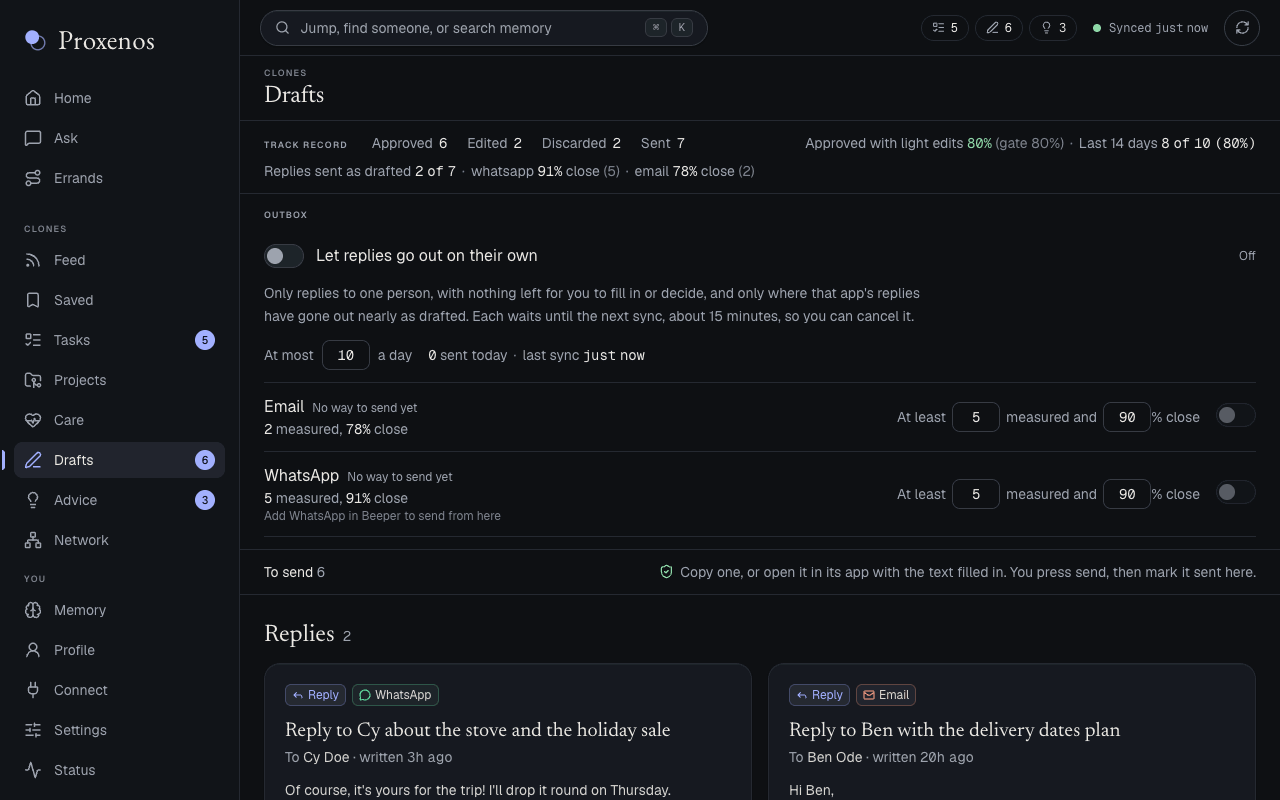
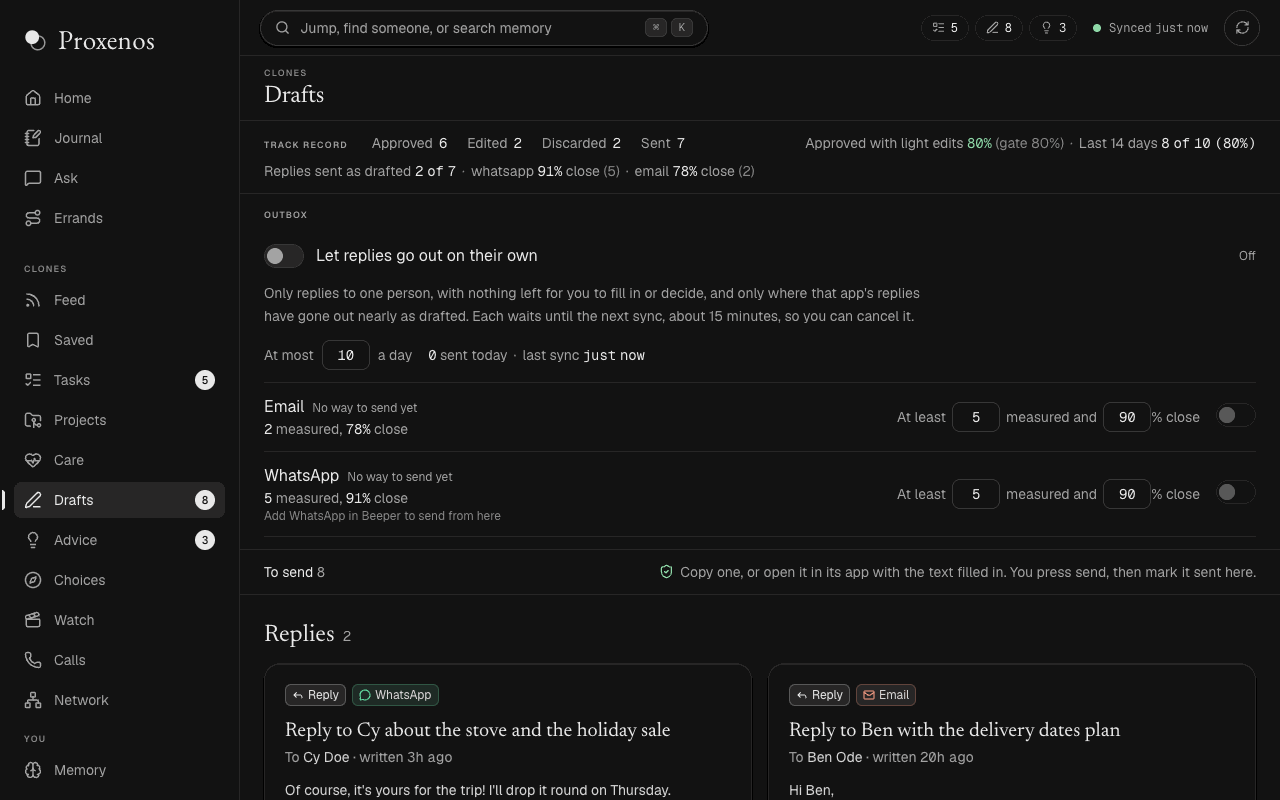
Bring the README up to date with the journal, forms, projects that read their code, what you tell Proxenos, drafts written your own way, plans on your calendar and the hourly task pass, add the journal to the demo and the pictures, and retake them in the neutral dark look in a morning time zone

diff --git a/web/src/components/home/ToldNotes.tsx b/web/src/components/home/ToldNotes.tsx
@@ -10,7 +10,7 @@ import type { ToldNote } from "@/lib/types";
 /**
  * What the reader tells Proxenos that no message shows: a fact for now ("I'm not going to
  * Tuesday's visit"), which the task list and calendar follow, or a rule for everything it drafts
- * ("Mom and Dad must never hear about my health"). Each can be removed again.
+ * ("keep replies to my manager short"). Each can be removed again.
  */
 export function ToldNotes({ now }: { now: string }) {
   const [notes, setNotes] = useState<ToldNote[]>([]);
@@ -70,7 +70,7 @@ export function ToldNotes({ now }: { now: string }) {
           onKeyDown={(e) => {
             if (e.key === "Enter" && (e.metaKey || e.ctrlKey)) void save();
           }}
-          placeholder="e.g. I'm not going to Tuesday's appointment; never tell my parents about my health"
+          placeholder="e.g. I'm not going to Tuesday's appointment; keep replies to my manager short"
           className="min-w-0 flex-1 resize-y rounded-xl border border-line-strong bg-bg p-2.5 text-sm text-ink leading-relaxed font-sans"
         />
         <ActionButton

diff --git a/src/proxenos/clones/journal.py b/src/proxenos/clones/journal.py
@@ -27,7 +27,7 @@ from datetime import UTC, date, datetime, time, timedelta
 from pathlib import Path
 
 from proxenos import llm, plans, told
-from proxenos.clones import tasks
+from proxenos.clones import tasks, work
 from proxenos.config import env
 
 DAY_STARTS = 6  # local hour: a run before it writes the day before
@@ -60,26 +60,18 @@ def write(vault: Path, day: date | None = None, now: datetime | None = None) -> 
     """Write the entry for `day` (the day that just ended, before DAY_STARTS), and count it."""
     now = now or datetime.now(UTC)
     day = day or (now.astimezone() - timedelta(hours=DAY_STARTS)).date()
-    start = datetime.combine(day, time.min).astimezone()
-    end = start + timedelta(days=1)
-    sections = {
-        "done": _done(vault, start, end),
-        "said": _said(vault, start, end),
-        "moved": _moved(vault, start, end),
-        "waiting": _waiting(vault),
-        "next": _next(vault, day, end),
-    }
+    sections = lines(vault, day)
     entry = {"date": day.isoformat(), "generated": _iso(now), "brief": "", "next_up": []}
     if any(sections.values()) and llm.configured():
         person = env("NAME", "the person")
-        lines = "\n\n".join(
+        listed = "\n\n".join(
             f"## {name}\n" + "\n".join(f"- {line}" for line in items)
             for name, items in sections.items()
             if items
         )
         try:
             answer = llm.ask(
-                f"The day: {day:%A %Y-%m-%d}.\n\n{lines}",
+                f"The day: {day:%A %Y-%m-%d}.\n\n{listed}",
                 system=_SYSTEM.format(person=person),
                 schema=_SCHEMA,
             )
@@ -87,18 +79,32 @@ def write(vault: Path, day: date | None = None, now: datetime | None = None) -> 
             entry["next_up"] = [" ".join(str(n).split()) for n in answer.get("next_up") or []][:3]
         except llm.ModelError as e:
             print(f"journal: no brief ({' '.join(str(e).split())[:200]})")
-    entry["sections"] = sections
-    out = vault / "clones" / "journal"
-    out.mkdir(parents=True, exist_ok=True)
-    tmp = out / f"{day.isoformat()}.json.tmp"
-    tmp.write_text(json.dumps(entry, indent=1, ensure_ascii=False) + "\n", encoding="utf-8")
-    tmp.replace(out / f"{day.isoformat()}.json")
+    save(vault, entry | {"sections": sections})
     return {f"{name} lines": len(items) for name, items in sections.items()} | {
         "briefs": int(bool(entry["brief"]))
     }
 
 
+def save(vault: Path, entry: dict) -> None:
+    """Write one day's entry, {date, generated, brief, next_up, sections}, in place of any before."""
+    path = vault / "clones" / "journal" / f"{entry['date']}.json"
+    work._write(path, json.dumps(entry, indent=1, ensure_ascii=False) + "\n")
+
+
 # What the day held
+
+
+def lines(vault: Path, day: date) -> dict[str, list[str]]:
+    """The day's lines, section by section, with no model."""
+    start = datetime.combine(day, time.min).astimezone()
+    end = start + timedelta(days=1)
+    return {
+        "done": _done(vault, start, end),
+        "said": _said(vault, start, end),
+        "moved": _moved(vault, start, end),
+        "waiting": _waiting(vault),
+        "next": _next(vault, day, end),
+    }
 
 
 def _done(vault: Path, start: datetime, end: datetime) -> list[str]:
@@ -108,18 +114,21 @@ def _done(vault: Path, start: datetime, end: datetime) -> list[str]:
         if _within(entry.get("closed_at"), start, end) and entry.get("action") in (None, "done"):
             found.append(f"Done: {entry.get('title')}")
     drafts = _drafts(vault)
-    sent: dict[str, None] = {}
+    sent: dict[str, str] = {}  # each draft sent that day, with who it went to
     for event in _jsonl(vault / "clones" / "drafts" / "feedback.jsonl"):
         if event.get("action") == "sent" and _within(event.get("ts"), start, end):
-            sent[str(event.get("draft_id"))] = None
+            sent.setdefault(str(event.get("draft_id")), "")
     fidelity = _json(vault / "clones" / "drafts" / "fidelity.json")
     for measured in fidelity.get("drafts", []) if isinstance(fidelity, dict) else []:
         if isinstance(measured, dict) and _within(measured.get("sent"), start, end):
-            sent[str(measured.get("id"))] = None
-    for key in sent:
+            sent[str(measured.get("id"))] = str(measured.get("to") or "")
+    for key, to in sent.items():
         draft = drafts.get(key, {})
-        to = f" to {draft['to']}" if draft.get("to") else ""
-        found.append(f"Sent: {draft.get('title') or key}{to}")
+        to = draft.get("to") or to
+        if draft.get("title"):
+            found.append(f"Sent: {draft['title']}{f' to {to}' if to else ''}")
+        elif to:  # a reply whose draft is gone: who it went to is all there is
+            found.append(f"Sent: a reply to {to}")
     for path in sorted((vault / "clones" / "projects").glob("*/steps/*.json")):
         step = _json(path)
         if step.get("status") == "accepted" and _within(step.get("updated"), start, end):

diff --git a/src/proxenos/demo.py b/src/proxenos/demo.py
@@ -6,8 +6,9 @@ sorting out the bill for new glasses. What the ingesters would bring in is writt
 their formats, dated around today: WhatsApp chats and groups, two mail accounts, two calendars,
 walks, listening, notes and LinkedIn connections. What the model would write from them is written
 the way each clone writes it: the self-model, a feed, tasks, care, advice, network ideas, the
-week's choices, drafts and errands. Then the steps that need no model run on it as they would on a real vault: the
-memory index, the people index, today's recall and the outbox's track record.
+week's choices, drafts and errands. Then the steps that need no model run on it as they would on
+a real vault: the memory index, the people index, today's recall, the outbox's track record and
+yesterday's journal, with the brief the model would write.
 
 No model is called, and nothing on this computer is read. The people and organizations are made
 up, phone numbers are 555-01xx (kept for fiction), and addresses and links use the reserved
@@ -28,7 +29,18 @@ from datetime import UTC, datetime, timedelta
 from pathlib import Path
 
 from proxenos import memory, outbox, store
-from proxenos.clones import advisor, care, choices, errands, network, recall, tasks, tracker, work
+from proxenos.clones import (
+    advisor,
+    care,
+    choices,
+    errands,
+    journal,
+    network,
+    recall,
+    tasks,
+    tracker,
+    work,
+)
 from proxenos.config import REPO_ROOT
 
 PORT = 4848  # the demo's page, so it can run beside your own on 4747
@@ -129,6 +141,7 @@ def build(vault: Path, now: datetime | None = None) -> dict[str, int]:
         people = network.build(vault, people_only=True, now=c.now)
         recalled = recall.recall(vault, now=c.now)
         outbox.run(vault, c.now)  # its track record for the page; a demo has no way to send
+        _journal(vault, c)
     return {
         "records": indexed.get("records_total", 0),
         "people": people.get("people", 0),
@@ -2235,6 +2248,34 @@ def _errands(vault: Path, c: _Clock) -> None:
     )
     for record in [*found, sent]:
         _write_json(vault / "clones" / "errands" / f"{record['id']}.json", record)
+
+
+def _journal(vault: Path, c: _Clock) -> None:
+    """Yesterday's journal entry as the night writes it: the lines from what the demo holds, and
+    the brief and next up the model would write from them."""
+    day = (c.local - timedelta(days=1)).date()
+    lines = journal.lines(vault, day)
+    sent = sum(line.startswith("Sent: ") for line in lines["done"])
+    replies = f"You sent {sent} repl{'y' if sent == 1 else 'ies'}." if sent else "Nothing went out."
+    brief = (
+        f"{replies} Hana Ito still owes you a topic for the lunch-and-learn, and Acme IT hasn't "
+        "fixed the label printer in dispatch. Next is Ben's delivery dates for the holiday "
+        "catalog, then getting Juniper Optical to rebill the glasses through the vision plan."
+    )
+    journal.save(
+        vault,
+        {
+            "date": day.isoformat(),
+            "generated": c.at(0, 1, 30),
+            "brief": brief,
+            "next_up": [
+                "Send Ben the delivery dates for the holiday catalog",
+                "Ask Juniper Optical to rebill through the vision plan",
+                "Reply to Cy about the stove and the holiday sale",
+            ],
+            "sections": lines,
+        },
+    )
 
 
 def _load(path: Path) -> list[dict]:

diff --git a/tests/test_told.py b/tests/test_told.py
@@ -20,7 +20,7 @@ def test_rules_stay_facts_fade_and_removed_ones_go(tmp_path):
         tmp_path,
         {
             "at": "2026-01-02T09:00:00Z",
-            "text": "Never tell  my parents about my health.",
+            "text": "Keep replies to  my manager short.",
             "always": True,
         },
         {"at": "2026-02-01T09:00:00Z", "text": "Old news.", "always": False},
@@ -30,12 +30,12 @@ def test_rules_stay_facts_fade_and_removed_ones_go(tmp_path):
     )
 
     assert [n["text"] for n in told.notes(tmp_path, NOW)] == [
-        "Never tell my parents about my health.",  # a rule: still here after two months
+        "Keep replies to my manager short.",  # a rule: still here after two months
         "Not going to Tuesday's visit.",  # a fact from yesterday; last month's has faded
     ]
     text = told.prompt(tmp_path, "Tess", NOW)
     assert "Tess's own rules for everything written for them" in text
-    assert "- Never tell my parents about my health." in text
+    assert "- Keep replies to my manager short." in text
     assert "- 2026-03-09: Not going to Tuesday's visit." in text and "Old news" not in text
     assert told.prompt(tmp_path / "none", "Tess", NOW) == ""
 

diff --git a/tests/test_journal.py b/tests/test_journal.py
@@ -2,6 +2,8 @@
 
 import argparse
 import json
+import os
+import stat
 from datetime import UTC, date, datetime
 
 import pytest
@@ -86,7 +88,9 @@ def test_the_day_is_written_from_what_the_vault_already_holds(tmp_path, monkeypa
     monkeypatch.setattr(llm, "ask", ask)
     stats = journal.write(vault, DAY, NOW)
 
-    entry = json.loads((vault / "clones" / "journal" / "2026-03-10.json").read_text())
+    path = vault / "clones" / "journal" / "2026-03-10.json"
+    entry = json.loads(path.read_text())
+    assert os.name == "nt" or stat.S_IMODE(path.stat().st_mode) == 0o600
     sections = entry["sections"]
     assert sections["done"] == ["Done: Send Asha the slides", "Sent: Reply to Ben to Ben"]
     assert sections["said"] == [

diff --git a/src/proxenos/told.py b/src/proxenos/told.py
@@ -3,7 +3,7 @@
 Two kinds of note, written from the page's home view into state/told.jsonl, one line each
 ({at, text, always}):
 - a rule, kept until the user removes it ("always"): how everything drafted for them goes,
-  such as "Mom and Dad must never hear about my health";
+  such as "keep replies to my manager short";
 - a fact, true for now: something that changed and no message shows yet, such as "I'm not
   going to Tuesday's clinic visit". It counts for FACT_DAYS.
 Removing a note appends {at, forget: <the note's at>}, so the file only grows, as feedback does.

diff --git a/README.md b/README.md
@@ -17,7 +17,7 @@ When you're unwell, the hard part is often everything around the care: referrals
 
 It grew out of one person's weeks of getting through the system while unwell. The story is [Try anything, but don't fall sick](https://mrugankdake.substack.com/p/try-anything-but-dont-fall-sick), and more on the project is at [mindemory.io/proxenos](https://www.mindemory.io/proxenos).
 
-> **Status: early, and used every day by one person.** It runs on a Mac (Apple Silicon) for someone comfortable with a terminal, and every check passes from a fresh clone. It's about 45,000 lines of Python and TypeScript, with 16,000 more in 680 tests that run on macOS and Windows on every push. It isn't yet something you can download and use without code. That's the next track: one download, signing in instead of configuring, and a clear privacy screen ([docs/everyone.md](docs/everyone.md)). Expect rough edges, and readers that assume a particular export format.
+> **Status: early, and used every day by one person.** It runs on a Mac (Apple Silicon) for someone comfortable with a terminal, and every check passes from a fresh clone. It's about 56,000 lines of Python, TypeScript and Swift, with 21,000 more in 720 tests that run on macOS and Windows on every push. It isn't yet something you can download and use without code. That's the next track: one download, signing in instead of configuring, and a clear privacy screen ([docs/everyone.md](docs/everyone.md)). Expect rough edges, and readers that assume a particular export format.
 >
 > **Help of any kind is welcome:** code, an issue, or an idea over a message or a call. Healthcare comes first, so people with medical training are especially welcome. Knowing what's worth tracking and what to ask is what would make this preventive, not just a way through the system. Good places to start are in [CONTRIBUTING.md](CONTRIBUTING.md#good-first-contributions). If you'd like Proxenos to exist for more people, a star helps others find it.
 
@@ -26,14 +26,17 @@ It grew out of one person's weeks of getting through the system while unwell. Th
 Proxenos gathers your own data (messages, email, calendar, notes, documents, activity) into one private vault on your computer. From that it keeps a written model of who you are, and runs small agents ("clones") that work for you:
 - a feed of new papers and news, ranked for you;
 - your open tasks, pulled from your conversations and from what you tell it, kept up through the day, with the plans among them (a lunch at 12, a call at 9) put on your own calendar;
+- a journal of each day, so you never have to narrate it: what got done, where you wrote, what moved in your projects, what's waiting on others and what's next, with a few sentences on how it went;
 - where your health care stands: a timeline, what's still open, what to say on the phone, and a one-page brief for your next appointment;
+- the forms you're handed (a PDF application, an intake form) filled from your records, leaving the ID numbers, account numbers and signature to you;
 - advice grounded in your own patterns;
 - once a week, what's worth taking on (a call for papers, a fellowship, a talk, a piece of writing, with a first step drafted) and what's worth letting go of (a meeting, a thread, an invitation, with the decline drafted), by your own goals;
+- where each of your long-running projects stands, from your messages and its code on every branch, and, given its code, the next step of its work done on a branch of its own for you to accept;
 - a map of the people you know and how they connect;
 - a searchable memory that brings the right past messages and notes to mind;
 - drafts of replies, emails and plans, written in your voice: a reply for each chat waiting on you, in the way you write to that person, after reading any link they sent.
 
-It drafts; by default it never sends, posts or buys anything by itself. You copy a draft or open it in its app with the text filled in, and press send yourself; once your reply shows up in that chat, the draft is marked sent. Chats that need no answer (thanks, a receipt, an auto-reply) get no draft. A draft you changed before sending is shown, beside what you sent, to the drafts written for you after it, and a draft your messages since made moot (someone else did it, or the plan changed) is folded away with why. An outbox you switch on per app lets replies go out on their own, only where that app's drafts have gone out nearly unchanged many times, with a window to cancel each one ([docs/memory.md](docs/memory.md)). It places a phone call only when you press Call: it waits on hold, says it's an automated assistant calling for you, and rings you when a person answers ([docs/calls.md](docs/calls.md)). The longer-term plan, moving from drafting to acting on approval to acting within rules you set, is in [docs/roadmap.md](docs/roadmap.md).
+It drafts; by default it never sends, posts or buys anything by itself. You copy a draft or open it in its app with the text filled in, and press send yourself; once your reply shows up in that chat, the draft is marked sent. Chats that need no answer (thanks, a receipt, an auto-reply) get no draft. A draft you changed before sending, or rewrote on the page with "Write my own", is shown, beside what you sent, to the drafts written for you after it, and a draft your messages since made moot (someone else did it, or the plan changed) is folded away with why. What you tell it on the home page shapes every draft: a fact your messages don't show ("I'm not going on Tuesday"), kept for two weeks, or a rule kept until you remove it ("keep replies to my manager short"). Drafts never leave a blank for you to fill in. An outbox you switch on per app lets replies go out on their own, only where that app's drafts have gone out nearly unchanged many times, with a window to cancel each one ([docs/memory.md](docs/memory.md)). It places a phone call only when you press Call: it waits on hold, says it's an automated assistant calling for you, and rings you when a person answers ([docs/calls.md](docs/calls.md)). The longer-term plan, moving from drafting to acting on approval to acting within rules you set, is in [docs/roadmap.md](docs/roadmap.md).
 
 *The name: in the Greek city-states, a proxenos was the citizen who formally acted on someone else's behalf.*
 
@@ -47,14 +50,19 @@ These come from `proxenos demo` (see [Quick start](#quick-start)), like the home
 | **Drafts: replies and documents in your voice, ready to send** | **Tasks: what was asked of you, pulled from your conversations** |
 | ![Drafts: a WhatsApp reply and an email reply to send, with each app's track record and the outbox, off](docs/images/drafts-desktop.png) | ![Tasks: tasks from email and WhatsApp, with who asked, when, and when each is due](docs/images/tasks-desktop.png) |
 
+**Journal: the day, written down, from what Proxenos already tracks**
+
+![Journal: a brief on yesterday, the next three things to do, and the replies sent, what's waiting on others and what's next](docs/images/journal-desktop.png)
+
 On a phone, over `proxenos phone`:
 
 <p>
-  <img src="docs/images/home-phone.png" width="19%" alt="Home on a phone">
-  <img src="docs/images/care-phone.png" width="19%" alt="Care on a phone">
-  <img src="docs/images/errands-phone.png" width="19%" alt="Errands on a phone">
-  <img src="docs/images/drafts-phone.png" width="19%" alt="Drafts on a phone">
-  <img src="docs/images/tasks-phone.png" width="19%" alt="Tasks on a phone">
+  <img src="docs/images/home-phone.png" width="15.5%" alt="Home on a phone">
+  <img src="docs/images/care-phone.png" width="15.5%" alt="Care on a phone">
+  <img src="docs/images/errands-phone.png" width="15.5%" alt="Errands on a phone">
+  <img src="docs/images/drafts-phone.png" width="15.5%" alt="Drafts on a phone">
+  <img src="docs/images/tasks-phone.png" width="15.5%" alt="Tasks on a phone">
+  <img src="docs/images/journal-phone.png" width="15.5%" alt="Journal on a phone">
 </p>
 
 ## How it works
@@ -66,7 +74,8 @@ your sources ──ingest──▶ vault/raw ──observe──▶ notes ──
                                                         clones: feed, tasks, advice,
                                                         choices, watch, network,
                                                         recall, projects, project
-                                                        steps, errands, drafts
+                                                        steps, errands, drafts,
+                                                        journal
                                                                 │
                                                         local page (127.0.0.1)
 ```
@@ -81,7 +90,7 @@ More detail: [architecture](docs/architecture.md), [memory](docs/memory.md), [da
 ## Privacy
 
 - **Code and data are separate.** This repository holds code only. Everything personal lives in a private vault outside the repo (picked on the first-run setup page, or `PROXENOS_VAULT`; default `~/proxenos_vault`). The vault keeps its own local git history of how the self-model changes.
-- **What reaches the model:** observers send the model only your side of conversations, never other people's messages. Clones send your self-model, plus public items such as papers and news; watch also sends the films you've logged and how you rated them. Three clones also send recent records they need, picked out in code: tasks sends conversations you're part of, with the title and opening of each draft waiting on you; care sends only records about getting health care, with people in chats replaced by labels and phone, account and member numbers blanked; and drafts sends the recent conversation in each direct chat, or Slack thread that mentions you or that you're in, waiting on your reply, with what your memory holds about that person and what the chat depends on (the newest records naming them, and the results of the searches the model asks for). On a phone call you start, what the other side says goes to the call's model to decide what the assistant says next, and the call's audio goes through Twilio, which transcribes it ([docs/calls.md](docs/calls.md)). Filling a form (`proxenos form`) sends its labels and the records memory finds for them, never a line for an SSN, an account number or a signature. Every draft also gets what you've told Proxenos on the home page (your rules, and recent notes, which the task list reads too) and your calendar for the coming week (each event's time and title). With a local model none of this leaves your computer, apart from the call's audio.
+- **What reaches the model:** observers send the model only your side of conversations, never other people's messages. Clones send your self-model, plus public items such as papers and news; watch also sends the films you've logged and how you rated them. Three clones also send recent records they need, picked out in code: tasks sends conversations you're part of, with the title and opening of each draft waiting on you; care sends only records about getting health care, with people in chats replaced by labels and phone, account and member numbers blanked; and drafts sends the recent conversation in each direct chat, or Slack thread that mentions you or that you're in, waiting on your reply, with what your memory holds about that person and what the chat depends on (the newest records naming them, and the results of the searches the model asks for). On a phone call you start, what the other side says goes to the call's model to decide what the assistant says next, and the call's audio goes through Twilio, which transcribes it ([docs/calls.md](docs/calls.md)). Filling a form (`proxenos form`) sends its labels and the records memory finds for them, never a line for an SSN, an account number or a signature. Every draft also gets what you've told Proxenos on the home page (your rules, and recent notes, which the task list reads too) and your calendar for the coming week (each event's time and title). The journal sends the day's lines to write its brief: the titles of tasks closed, waiting and due, the names of the chats you wrote in and the drafts sent, what you told Proxenos that day, your projects' commit messages, the next day's calendar and care's open items. With a local model none of this leaves your computer, apart from the call's audio.
 - **Links in messages** are fetched only for a chat waiting on your reply, and only from hosts on the public internet, never this computer or your local network.
 - **The page is local only.** It binds to 127.0.0.1 and rejects requests from other sites. The one way in from elsewhere is `proxenos phone`: your Mac's private address on your own Tailscale network, answered only for your own Tailscale login. Nothing is opened to the internet, except, if you set up calls, one port Tailscale Funnel opens for Twilio, which answers only during a call and only requests Twilio signed.
 - **Credentials** stay on your computer: in its own secure store, one item each (the macOS Keychain, Windows Credential Manager, or the Secret Service on Linux), or in `.env` (which git ignores) when you run from source with one. The page shows whether each is set, never what it is.
@@ -130,7 +139,7 @@ proxenos master                 # notes per month, then the self-model
 proxenos clone tracker          # also: tasks, care, advisor, network, choices, watch, recall, projects, work
 ```
 
-Your long-running projects are a list you keep in the vault, `clones/projects/projects.json`: each with an id, a name, what it's about, its people and the words that name it. Each night Proxenos writes where each one stands. Give one its code's folder and its data folders, and it also does the work, a step a night, on a branch of its own, and brings it back for you to accept on the page's Projects view:
+Your long-running projects are a list you keep in the vault, `clones/projects/projects.json`: each with an id, a name, what it's about, its people and the words that name it. Each night Proxenos writes where each one stands, from what your messages say and, given its code's folder, the commits on every branch since the last run. Give one its data folders too, and it also does the work, a step a night, on a branch of its own, and brings it back for you to accept on the page's Projects view:
 
 ```json
 {"id": "calls-paper", "name": "The calls paper", "about": "...", "people": ["Ana Lee"],
@@ -146,7 +155,7 @@ To keep it running without a terminal, run `scripts/install-app.sh`: the page an
 
 `px` is a short alias for `proxenos`.
 
-Some sources read a folder on your computer: a folder of documents, your website's repo, a Spotify export, slackdump runs. Set them in Settings, or in `.env` as `PROXENOS_DOCS_DIRS`, `PROXENOS_WEBSITE_REPO`, `PROXENOS_SPOTIFY_EXPORT` and `PROXENOS_SLACKDUMP_DIR`. `.env.example` lists every setting.
+Some sources read a folder on your computer: a folder of documents, your website's repo, a Spotify export, slackdump runs. Set them in Settings, or in `.env` as `PROXENOS_DOCS_DIRS`, `PROXENOS_WEBSITE_REPO`, `PROXENOS_SPOTIFY_EXPORT` and `PROXENOS_SLACKDUMP_DIR`. To have plans from your messages land on one of your calendars, set `PROXENOS_PLANS_CALENDAR` to its name in the Mac's Calendar app, which syncs it to its account (Google, Exchange, iCloud); otherwise subscribe to the page's `/api/plans.ics`. `.env.example` lists every setting.
 
 ## Sources
 
@@ -179,17 +188,18 @@ See [docs/data_sources.md](docs/data_sources.md) for each one's details.
 | `proxenos ask [QUESTION]` | Ask your twin: a question, a pasted message or screenshots (from the page's Ask view), answered from your memory the way you'd think it through, with a reply drafted when it's a message to you |
 | `proxenos phone` | Open the page to your own phone over Tailscale |
 | `proxenos call start NAME` / `stop NAME` / `list` | Place a phone call from a call sheet (also from the page's Calls view), through your own Twilio account: it waits on hold, says it's an automated assistant calling for you, and rings you when a person answers, or asks for what the sheet lists. It never agrees to pay. See [docs/calls.md](docs/calls.md) |
-| `proxenos web [--port N]` | The local page: a landing, then the app (Home, Ask, Errands, Feed, Tasks, Projects, Care, Drafts, Advice, Choices, Watch, Calls, Network, Memory, Profile, Connect, Settings, Status), after a short setup the first time |
+| `proxenos web [--port N]` | The local page: a landing, then the app (Home, Journal, Ask, Errands, Feed, Tasks, Projects, Care, Drafts, Advice, Choices, Watch, Calls, Network, Memory, Profile, Connect, Settings, Status), after a short setup the first time |
 | `proxenos demo [PATH]` | A vault of made-up records to try the page on, with no model, and the command that opens it. PATH must be new, empty or an earlier demo |
 | `proxenos form PATH` | A PDF form filled in from your records, beside it as `-filled.pdf`, with what it filled, where each answer came from and what's left for you. It never fills an SSN or another ID, an account or card number, or a signature, and keeps only answers your records show |
-| `proxenos sync` | Import new downloads and refresh every source that needs no model; update the memory index and today's recall. With an API key, also draft replies to chats newly waiting on you (at most five a run) |
+| `proxenos sync` | Import new downloads and refresh every source that needs no model; update the memory index and today's recall. With a model, also draft replies to chats newly waiting on you (at most five a run), and, at most hourly when something new was said, update the task list, put new plans on your calendar and fold away drafts made moot |
 | `proxenos import [PATH ...]` | Recognize and import downloaded exports |
 | `proxenos ingest <source>` | Pull one source into the vault |
 | `proxenos auth strava` / `slack` / `slackdump WORKSPACE` / `gmail NAME ADDRESS` / `gcalendar NAME ADDRESS` / `microsoft NAME ADDRESS` / `beeper` | One-time sign-ins: tokens go to the Keychain (to `.env` when running from source with one); slackdump keeps its own. Most can also be done from the app's Connect page |
 | `proxenos observe [--dry-run]` | Per-month notes on what each source says about you |
 | `proxenos master [accept]` | Sync, observe and update the self-model; `accept` applies proposed changes |
 | `proxenos index [--rebuild]` | Full-text memory index over the whole vault, no model |
-| `proxenos clone <name>` | Run one clone: `tracker`, `tasks`, `care`, `advisor`, `network`, `choices`, `watch`, `recall`, `projects`, `steps` or `work` |
+| `proxenos clone <name>` | Run one clone: `tracker`, `tasks`, `care`, `advisor`, `network`, `choices`, `watch`, `recall`, `projects`, `steps`, `work` or `journal` |
+| `proxenos clone journal [--date DAY]` | The day, written down (also from the page's Journal view): what got done, where you wrote, what moved in your projects, what's waiting and what's next, with a short brief. The night writes the day that just ended; `--date today` writes today so far |
 | `proxenos clone steps --project ID` | A step of a project's own work (also from the page's Projects view): the next analysis, fix, figure or section, done on a new branch of the project's code in a worktree of its own, by Claude Code where it's installed or else the local model, and reported. Accept on the page merges it into your checkout; Discard deletes the branch. Nothing is pushed |
 | `proxenos clone choices [--force]` | The week's choices: what's worth taking on and what's worth letting go of. The night runs it once a week; `--force` runs it now |
 | `proxenos clone watch [--force]` | What to watch next: films and shows you haven't seen, picked from what you loved on Letterboxd, and the films on your watchlist that suit this week. The night runs it once a week; `--force` runs it now |

diff --git a/docs/architecture.md b/docs/architecture.md
@@ -34,10 +34,12 @@ There is exactly **one model of you**, and many clones that use it. Clones are r
   - **watch:** once a week, what to watch next. It reads every film you've logged on Letterboxd (an export, and the public diary feed that sync reads every run), with your ratings and hearts, your watchlist, and how you marked earlier picks. One model call then picks up to eight films and six shows you haven't seen, each with why it suits you and the films you loved that it follows from, and up to three films from your watchlist that suit this week. Code drops anything you've seen or marked seen or not for me, and links each pick to Letterboxd and to JustWatch, which says where it streams. Letterboxd keeps films, so the shows you mark on the page are what it learns your taste in TV from. What you mark want stays on the page until you mark it seen.
   - **network:** the people you know, how they connect, and project and outreach ideas.
   - **recall:** memories relevant to today (below).
-  - **projects:** where each of your long-running projects stands (a paper, an analysis), from what your messages, mail and notes say about it: a status, a dated log, the next steps, what only you can decide, and up to two drafts a night that move it on. The projects are your own list, `clones/projects/projects.json`.
+  - **projects:** where each of your long-running projects stands (a paper, an analysis), from what your messages, mail and notes say about it and, for a project with its code's folder, what the code shows: the commits on every branch since the last run, the branch the checkout is on and the documents those commits changed, so a draft on another branch isn't missed. It writes a status, a dated log, the next steps, what only you can decide, and up to two drafts a night that move it on. The projects are your own list, `clones/projects/projects.json`.
   - **steps:** the next piece of a project's work, done. A project on the list with its code's folder (`"repo"`, a git repository on this computer) and its data folders (`"data"`) takes one step a night, once its last one is accepted or discarded, and one more whenever you press "Do a step now" or queue one on the page's Projects view. The step is the one you queued, else one picked from the project's status and the steps before: run an analysis, fix a script, make a figure, draft a section as markdown. It's done on a new branch, `proxenos/<project>-<when>`, in a git worktree of its own, so your checkout is never touched, and it comes back as a report: what it did, what it found (numbers and figures), the files it changed, what it couldn't do and what's next. Accept merges the branch into the branch your checkout is on; Discard deletes the branch and the worktree. Nothing is pushed and no one is contacted. The work itself is done by a runner (`proxenos/agent.py`): Claude Code, headless, where it's installed, inside its sandbox (its commands write only in the worktree and reach no network; nothing it does reads the vault or your keys; at most 30 minutes, 100 turns and a spending budget, `PROXENOS_STEP_BUDGET`), on the account Claude Code is signed in to, never Proxenos's API key. Without Claude Code, or when it can't start, the local model takes the step, and it can only write: it reads a few of the project's files and writes a script, a fix or a section, runs nothing, and its report says so. `PROXENOS_STEP_RUNNER` (`claude` or `local`) picks one. Each step is `clones/projects/<id>/steps/<when>.json`, with what it made beside it.
+  - **journal:** the day, written down, so you never have to narrate it. Each night it writes the day that just ended (`clones/journal/<date>.json`; the page's Journal view writes today's on demand) from what the other clones and sources already hold: what got done (tasks closed, drafts sent, steps accepted, forms filled), where you wrote and what you told Proxenos, each project's commits that day, what's waiting on others, and what's next (tomorrow's calendar, tasks due soon or marked high, drafts to send, care's open items). One model call then writes a few sentences on how the day went and the three things to do next, from those lines alone; without a model the lines stand alone.
   - **work:** drafts of replies, emails, plans and reading notes in your voice, and the first steps and declines of the week's choices. Drafts only; nothing is sent. Each direct chat where someone else had the last word in the past week gets a reply (WhatsApp, Messenger, Instagram, LinkedIn, email, and Slack direct messages and threads that mention you or that you're in), drafted from the conversation, your own last messages in that chat (how you write to that person), and the pages linked in what's waiting, fetched and read first. With an API key, `proxenos sync` drafts these replies as chats come in: only chats with no draft yet, at most five a sync, so a quiet sync makes no model call.
 - **Calls** (`proxenos call start NAME`, or the page's Calls view): a phone call the user starts from a call sheet, through their own Twilio account. It waits on hold saying nothing, tells a person picking up from the hold's recordings, says it's an automated assistant calling for the user, and rings the user, who presses 1 to be put through; or it asks for what the sheet lists itself, a model turn at a time, with code that replaces any reply agreeing to pay and puts the user through for anything it doesn't have. The transcript and what came of each ask stay in the vault ([calls.md](calls.md)).
+- **Forms** (`proxenos form PATH`): a PDF form filled from your records. It reads the form's own fields, or, on a flat PDF, its labels, the lines and boxes beside them and its circles and checkboxes; searches memory for each label; and asks the model to fill each blank from what it found, citing where each answer came from. Code then keeps only answers the records it was shown actually contain, and never sends or fills a line for an SSN or another ID, an account or card number, or a signature. The filled copy lands beside the form as `-filled.pdf`, with what's left for you listed.
 - **Memory** (`proxenos index`, no model): a full-text index (SQLite FTS5, `vault/memory/index.sqlite`) over every raw record, searchable by words, person, source and date, with the surrounding conversation for any hit. It is derived data, rebuilt from `raw/` at any time, and `proxenos sync` keeps it current. Beside it, a vector index (`vault/memory/vectors.sqlite`, `proxenos index --vectors`) holds the last year by meaning: a chat's day of messages, or one email, note or document, embedded by a small model on this computer (Ollama, `qwen3-embedding:0.6b`), so a question finds what answers it even when the words differ. Each sync embeds what's new for a few minutes; reply research searches it first. The **recall** clone (`proxenos clone recall`) turns it into proactive memory: for today's calendar, open tasks, feed items and closest people it finds the past conversations, mail and notes that bear on them, or nothing when nothing fits.
 - **Ask** (`proxenos ask`, the page's Ask view): a question, a pasted message or up to four screenshots. The model reads the screenshots (who wrote what), looks through memory as a reply does (the person, and what the answer depends on, by meaning and by words), then answers from the self-model and the "right now" note, and drafts a reply in your voice when it's a message to you. Each ask is a file in `clones/ask/`; a draft also lands in Drafts.
 - **Errands** (`proxenos clone errands "GOAL"`, the page's Errands view): something to get done, such as reaching someone about a role, with your CV. An errand reads the goal, looks the person up, finds a way to reach them from your own mail and chats (an address they wrote from, one you wrote to, a chat with them through Beeper; never a guessed address), finds your newest CV, reads the emails you wrote before for the same kind of reach-out, and writes the message, plus, when there's no way to reach them, a note asking someone you know there for an introduction. Then it stops one tap short: the page shows each message, editable, with every step the errand took and why, and Send sends that one message, by Mail with the CV attached or through Beeper. Each night, errands still waiting on an address look again. Each is a file in `clones/errands/`.
